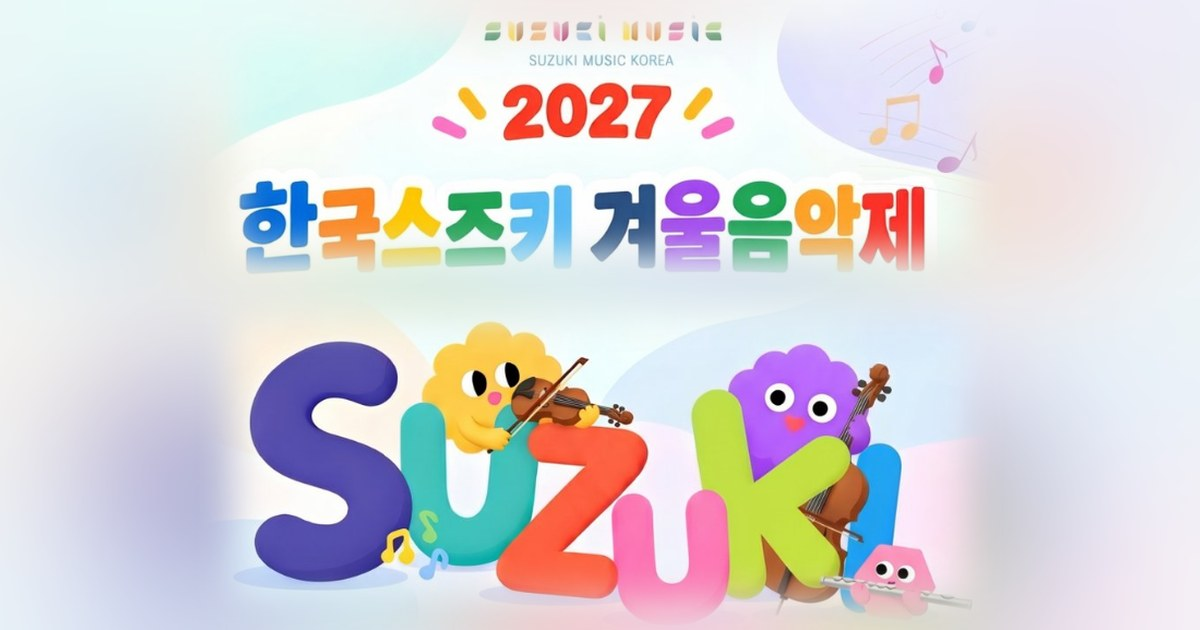
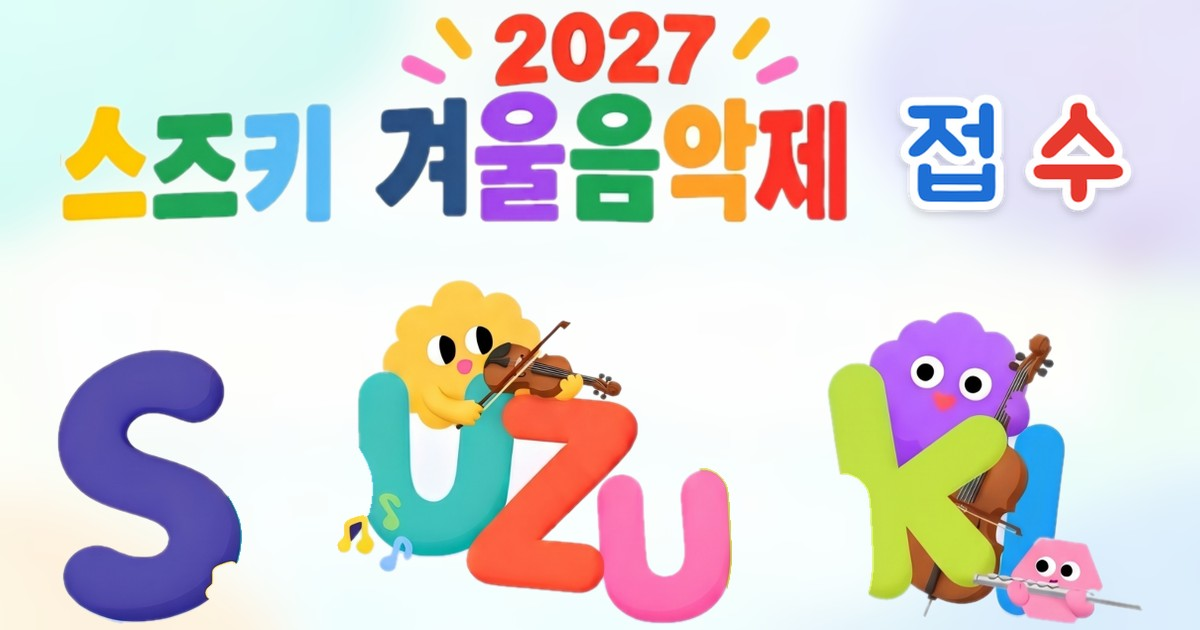
camp: 공유 그림 — 2027 · 스즈키 겨울음악제 접수 · SUZUKI 캐릭터 넓게
Claude-Session: https://claude.ai/code/session_01McH2SMSpo6xGfG1xFNNs6e

diff --git a/camp/parent.html b/camp/parent.html
@@ -16,7 +16,7 @@
 <meta property="og:description" content="학원에서 받은 주소로 캠프 참가를 신청해요. 회원가입 없이 보호자 이름 · 휴대전화로.">
 <meta property="og:type" content="website">
 <meta property="og:site_name" content="스즈키 겨울 음악제">
-<meta property="og:image" content="https://app.suzukimusickorea.org/camp/og-poster.jpg?v=6">
+<meta property="og:image" content="https://app.suzukimusickorea.org/camp/og-poster.jpg?v=7">
 <meta property="og:image:width" content="1200">
 <meta property="og:image:height" content="630">
 <meta name="twitter:card" content="summary_large_image">

diff --git a/camp/new.html b/camp/new.html
@@ -15,7 +15,7 @@
 <meta property="og:url" content="https://app.suzukimusickorea.org/camp/new.html">
 <meta property="og:type" content="website">
 <meta property="og:site_name" content="스즈키 겨울 음악제">
-<meta property="og:image" content="https://app.suzukimusickorea.org/camp/og-poster.jpg?v=6">
+<meta property="og:image" content="https://app.suzukimusickorea.org/camp/og-poster.jpg?v=7">
 <meta property="og:image:width" content="1200">
 <meta property="og:image:height" content="630">
 <meta name="twitter:card" content="summary_large_image">
